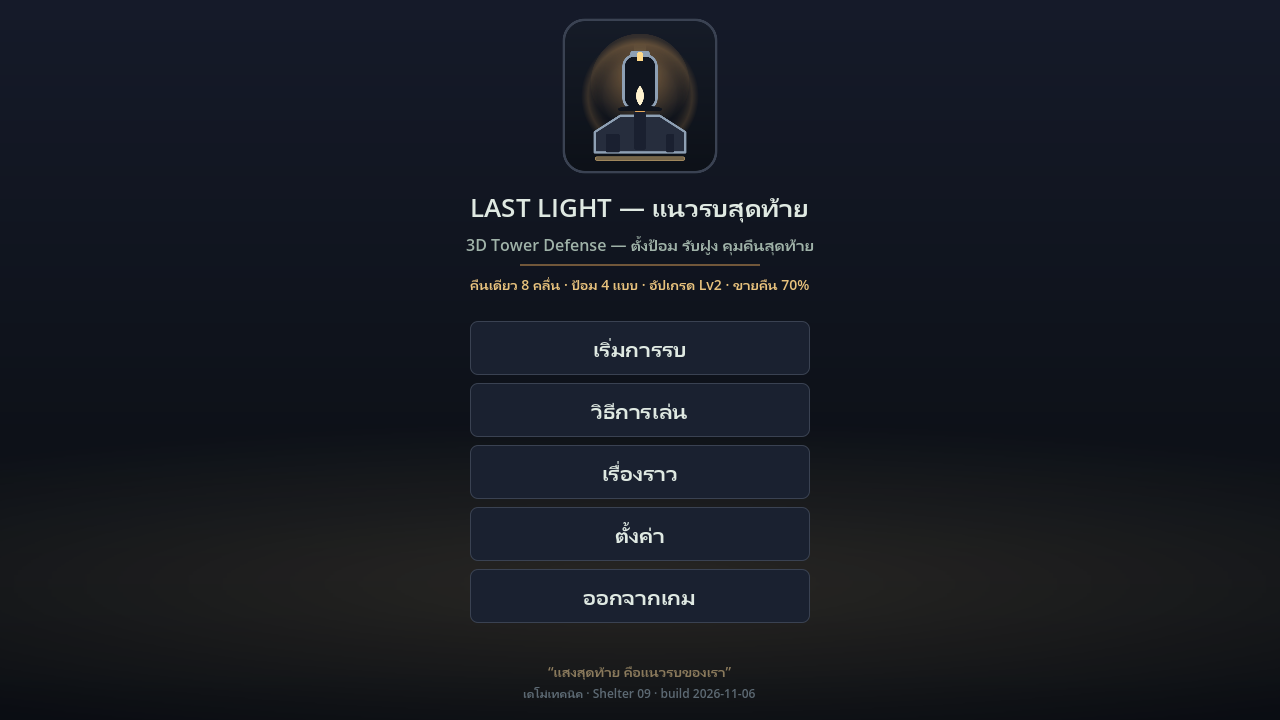
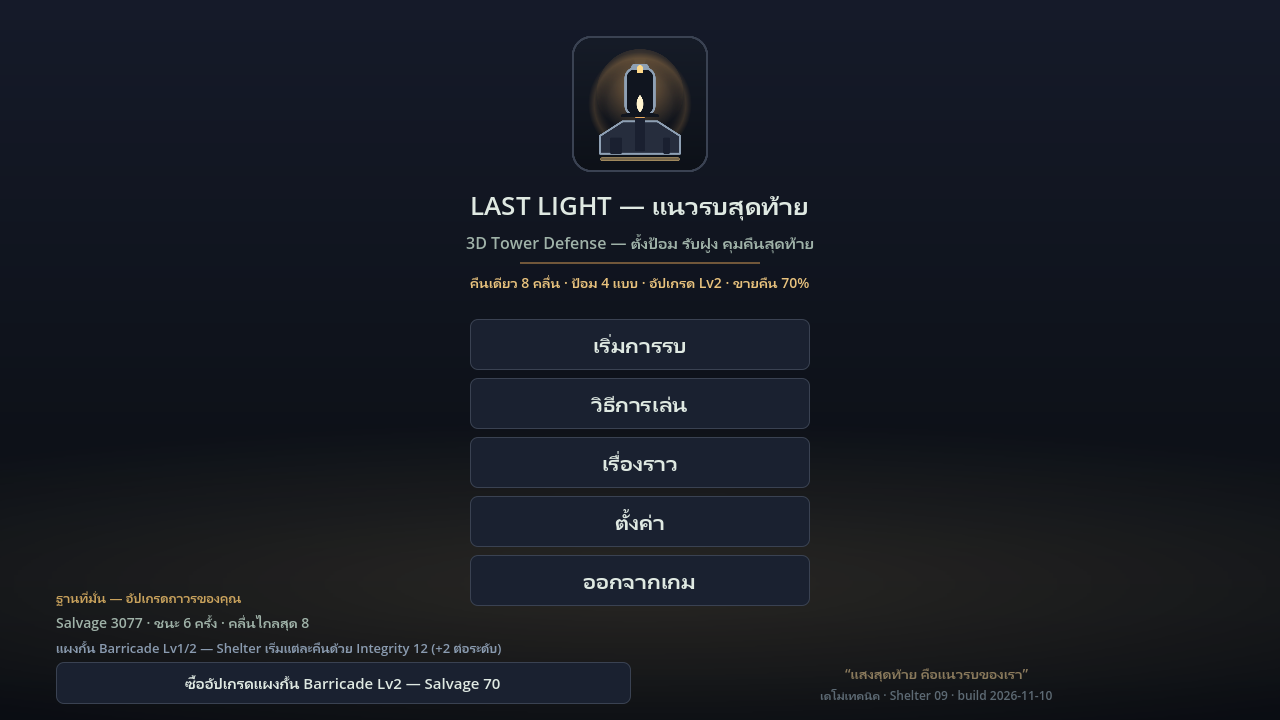
docs(3d): EN store copy + rebuilt marketing captures + title footer 720p fix
MARKETING.md: the TH long copy no longer contradicts the shipped game (it claimed hero units were fully cut - Rin is on the field now); rewritten to cover Rin, per-tower targeting, two maps and the base panel. Added the EN store copy (Short/Long/feature bullets) drafted against the real data numbers (cost 80/120/60/140, 8 waves, 70% refund), flagged as awaiting the Game Director's final approval before publishing, plus a recapture note and an EN-approval checklist item. BUILD_TAG moved to 2026-11-10 (CSV reimported, phase7 green). Real bug found while eyeballing the captures: the title-menu base panel clipped at 720p - measured with the new dev_layout_probe.gd (buy button bottom 728 > 720, footer was 92px tall for ~116px of content), fixed in title_menu.gd footer offset_top -108 -> -132 (panel now ends at y704 with a 16px margin). New dev_marketing_capture.gd re-captures menu_title.png and showcase_battle.png from the real build in-engine (base panel complete, battle frame with live combat - Tangle aura, Sonic FX, drifters on the road). Docs pointers updated (ROADMAP, AGENTS, dev log). 11/11 suites green; balance data untouched.

diff --git a/docs/MARKETING.md b/docs/MARKETING.md
@@ -23,28 +23,55 @@
 ### Short (itch.io blurb, ~60 คำ)
 
 > เกาะชายฝั่งหลังคืนไร้ดาว ฝูง Hollows ยกมาตามถนนทุกคืนเพื่อล้ำแนวรบของ Shelter 09
-> คุณคือริน เปลี่ยนเศษ Salvage เป็นป้อมยิง เครื่องคลื่น และสายพันเท้า — ตั้ง อัปเกรด ขายคืน
-> รอดครบ 8 คลื่นจนตัวจริงของคืนออกมา: Rift Warden
+> คุณคือริน — วิศวกรคุมแนว: เปลี่ยนเศษ Salvage เป็นป้อมยิง เครื่องคลื่น และสายพันเท้า ตั้ง อัปเกรด ขายคืนได้ 70% ระหว่างเดินยิงคุมหน้าเองด้วยปืนเล็ก
+> รอดครบ 8 คลื่นจนตัวจริงของคืนออกมา: Rift Warden — แล้วเอา Salvage ที่ได้ไปหุ้มฐานที่มั่นเพื่อคืนถัดไป
 
 ### Long (Steam About, ~150 คำ, โครง 3 ย่อหน้า)
 
-> **LAST LIGHT** เป็น tower defense มุมมอง isometric แบบ fixed camera ที่ตัด hero unit ออกทั้งหมด — แผนการรบของคุณคือทั้งหมดที่คุณมี
+> **LAST LIGHT** เป็น tower defense มุมมอง isometric แบบ fixed camera — กระดูกงูของแผนการรบคือแนวป้อม และ **ริน** นักลงสนามที่คุมเอง (WASD + ยิงเอง) เดินคุมหน้าคู่เส้นทางได้อิสระบนพื้นสนามจริง ไม่มีตารางเลน
 >
-> แต่ละคืนคือ 1 รอบภารกิจ: เก็บ Parts จากการกำจัดฝูง Hollows แล้ววางป้อมได้อย่างอิสระบนพื้นสนาม เลือก Field Turret เลเซอร์ยิงเดี่ยว, Sonic Resonator จรวดระเบิดวงกว้าง, Tangle Emitter ไฟฟ้าชะลอ หรือ Arc Cannon พลังงานระเบิดแรง ป้อมอัปเกรดได้ 2 ระดับและขายคืน 70% เสมอ จึงแก้แนวรบได้กลางคืน
+> แต่ละคืนคือ 1 รอบภารกิจ: เก็บ Parts จากการกำจัดฝูง Hollows แล้ววางป้อมโดยใช้พื้นสนามจริง (ไม่มีตารางเลน) — Field Turret เลเซอร์ยิงเดี่ยว, Sonic Resonator จรวดระเบิดวงกว้าง, Tangle Emitter ไฟฟ้าชะลอ, Arc Cannon ระยะไกลระเบิดแรง ป้อมอัปเกรดได้ 2 ระดับ ขายคืน 70% เสมอ และ**ชี้ที่ป้อมกด T สลับโหมดเลือกเป้าต่อป้อม**: หัวแถว / ท้ายแถว / แข็งสุด / อ่อนสุด
 >
-> 8 คลื่นจบด้วย Rift Warden บอสที่ไม่ได้ทนแค่ตัวเลข — มันบังคับให้คุณรื้อแผนที่ตั้งไว้ตั้งแต่คลื่นแรก ระบบเก็บ playtest metrics ติดตั้งในเกมตั้งแต่วันแรก เพราะเราต้องการสถิติจริงในการปรับสมดุล
+> 8 คลื่นปิดด้วย Rift Warden บอสที่บังคับให้คุณรื้อแผนตั้งแต่กลุ่มกลาง ชนะแล้วปลดล็อก **ที่ราบริฟท์** — ถนนยาวโค้งมากกว่า — และทุกคืนส่ง Salvage กลับหน้าเมนูเข้าแผง "ฐานที่มั่น": อัปเกรดถาวร +2 Shelter Integrity ต่อระดับ ใช้กับคืนถัด ๆ ไป
 
 ### Feature list (bullets หน้าร้าน)
 
-- เป้าเคลื่อนที่แบบ "first" + free placement + slow/electric + splash — วางแนวรบตามเส้นทางจริง
-- อัปเกรดสูงสุด 2 ระดับ/ป้อม, ขายคืน 70% — ความผิดพลาดไม่ใช่ game over
-- คลื่นที่ 8 ปิดด้วยบอสตัวเดียว Warden (ราคากำลังบอส: Parts ล้นถ้าชนะ)
-- ภาษาไทยก่อน (UI + story) พร้อมเวลาอ่านสั้นที่เหมาะกับเซสชันกลางคืน
+- ป้อม 4 แบบ + อัปเกรด 2 ระดับ + ขายคืน 70% — แก้แนวได้กลางคืน ผิดพลาดไม่ใช่ game over
+- **โหมดเลือกเป้าต่อป้อม (T):** หัวแถว / ท้ายแถว / แข็งสุด / อ่อนสุด — อ่านเกมแล้วเลือกเอง
+- **ริน — hero คนเดียวของเกม:** auto-deploy ทุกคืน, เดินสายคุมหน้า ยิงที่จุด/ด้านหน้า, เรียกกลับได้ (H)
+- **สองแผนที่ + เรียกคลื่นเชื่อมได้**: กดเปิดคลื่นถัดไปกลางคลื่นเดิม = เสี่ยงเงินไหลเร็ว
+- **แผงฐานที่มั่น (progression ถาวร):** Salvage ทุกคืนสะสมเป็นเกราะเริ่มคืนถัดไป
+- ภาษาไทยก่อน พร้อมสลับ English ได้ในแผงตั้งค่า (UI + คู่มือ + เรื่องราว)
 - low-poly stylized ที่รันได้บนเครื่องธรรมดา (Godot 4, GL Compatibility)
+
+### EN store copy (2026-11-10 — ร่างเตรียมขึ้น; อนุมัติขั้นสุดท้ายโดยผู้กำกับก่อนเผยแพร่จริง)
+
+**Short (itch.io EN blurb, ~60 คำ):**
+
+> On a coast gone dark since the starless night, the Hollows march down the old roads every night to break Shelter 09's line. You are Rin — the holding engineer: turn salvaged parts into lasers, rocket salvos and wire entanglements. Place anywhere, upgrade, sell back 70%. Rain fire while she covers the ground herself, survive one eight-wave night, then put your salvage into the base's permanent armor for the next.
+
+**Long (Steam EN About, ~160 คำ):**
+
+> **LAST LIGHT** is a fixed-camera isometric tower defense: your towers are the backbone of the plan, and Rin, your on-field operative, fights beside them with WASD movement and aimed strikes. Placement is free — put a turret anywhere the salvage can reach.
+>
+> Each night is one mission: scrap the Hollows for Parts, then choose between the Field Turret (fast laser shots), the Sonic Resonator (wide-area splash), the Tangle Emitter (an electric slow field) and the Arc Cannon (long-range bursts). Each tower upgrades twice and sells back 70% — and pointing at a tower and pressing T changes which enemy it targets: first, last, strongest or weakest.
+>
+> Eight waves close with the Rift Warden. Clearing map 1 unlocks Rift Fields, a longer winding route, and every night's salvage feeds the base panel on the title screen — permanent Barricade armor, +2 Shelter Integrity per level, for the nights after.
+
+**EN feature bullets:**
+
+- 4 towers with free placement, two upgrade levels, always 70% sell-back
+- Per-tower targeting modes (T): first / last / strongest / weakest
+- Rin, your single hero: auto-deploys, WASD + aimed strikes, recall with H
+- Two nights (maps) after victory — chain the next wave early for faster money at greater risk
+- Permanent base-panel progression from battlefield salvage
+- Thai-first UI with instant English switch in settings
+- Low-poly stylized visuals that run on modest PCs (Godot 4, GL Compatibility)
 
 ## 3) Visual / Logo
 
 - **ต้นฉบับเวกเตอร์:** `projects/last-light-3d/assets/brand/logo_emblem.svg` (copy ที่ `docs/art/logo_emblem.svg`)
+- **ภาพหน้าร้าน:** `docs/marketing/menu_title.png` + `showcase_battle.png` — **re-capture 2026-11-10** จาก build จริง (มีแผงฐานที่มั่นบนเมนู, ริน+การ์ด+HUD ฉากรบ คลื่น 1 มีการต่อสู้จริง) ผ่าน `projects/last-light-3d/tests/dev_marketing_capture.gd` (in-engine capture เท่านั้น) — เปลี่ยนเมนู/ฉากเพิ่มเมื่อไรให้ recapture ด้วย
 - **สัญลักษณ์:** ตะเกียงเรือนแสงบนเพลาสัญญาณ + ไซโล Shelter 09 เป็นเงา 2 มิติ ล้อมด้วยแอมเบอร์ halo — คือ "แสงสุดท้ายที่ต้องถูกปกป้อง"
 - **Palette ของแบรนด์** (ใช้ตรงกับทั้ง UI และงานสื่อสาร):
   - พื้นมืด `#141826` / `#0d1118`
@@ -72,6 +99,7 @@
 ## 6) Launch checklist
 
 - [ ] เลขทั้งหมดใน copy ตรงกับ data `.tres` (cost 80/120/60/140, 8 waves, refund 70%)
+- [ ] copy ภาษาอังกฤษ (หัวข้อ EN store copy) ผ่านการอนุมัติผู้กำกับขั้นสุดท้าย
 - [ ] ตัวหนังสือไทยไม่ตัดกัน (ตรวจที่ 1280x720 และ 1920x1080)
 - [ ] GIF/ภาพมาจาก build จริงที่ metrics บันทึกอยู่ (ไม่ใช่ build debug ที่แกตัวเลข)
 - [ ] ชื่อเรื่อง/ชื่อ IP สะกดตรงกันในทุก asset: LAST LIGHT, Shelter 09, ริน, มีรา, Hollows, Rift Warden

diff --git a/docs/ROADMAP.md b/docs/ROADMAP.md
@@ -77,7 +77,7 @@
 - **ทำแล้ว (2026-11-07):** Localization ไทย/อังกฤษ — `translations.csv` (keys,en,th) + เลือกภาษาใน settings panel + เปลี่ยนภาษาสดทุกหน้าที่เปิดอยู่ (menu/HUD/การ์ดป้อม/หน้าจบ) ผ่าน `TDSettingsStore` (section `localization`, ค่าเริ่มต้น `th`); เทสต์ phase7 เพิ่มเป็นชุดที่ 7 — **เช็กลิสต์ TD-2 ปิดครบทุกหัวข้อ**
 - **ทำแล้ว (2026-11-09):** งานตามคำสั่งผู้กำกับ 3 ข้อ: (1) Splitter ศัตรูใหม่ (ตายแล้วแตก TRAINER-CHILD, ค่าใน `splitter.tres`) + FX ชุดใหม่ (`KIND_SPLIT`, spawn portal, boss aura) เพื่อเพิ่มแรงกดดันตาม sim metrics ชุดแรก; (2) **Map 2** หลังผ่านด่าน 1 — `TDMapLayout` Resource + map_01/map_02 `.tres` + TDMapSession handoff + resume รู้จัก map + victory → NEXT_MAP flow; (3) Active **Hero prototype** (ริน) dev-gated คีย์ H ตามคำสั่งผู้กำกับ — ละเว้น "วางป้อมล้วน" ชั่วคราวใน dev build รอตัดสินหลังลองเล่น (ดู GDD_3DTD §11); เทสต์ phase8–10 เพิ่มเป็นชุดที่ 8–10, ตัวเลข hero ทั้งหมดใน `data/heroes/rin_prototype.tres`
 - **ทำแล้ว (2026-11-09, ต่อเดิมวันเดียวกัน):** wave iteration pass ตาม metrics รอบใหม่ — เป้า TD-1 "leak > 0 คลื่น 5–7" ถึงแล้วบน map 1 (leaks 5:4/6:1/7:2, ชนะ integrity 5/12, upgrade ถูกใช้) ผ่าน `TDMapLayout.wave_paths` per-map wave override (map 1 ใช้ชุด `data/waves/map_01/`, map 2 คง default ชนะ 11/12); `spawn_interval` เป็นเหลี่ยมที่กัด rate จริง, `health_bonus` คง curve เดิม; งานนี้ไม่ขยับจนกว่า playtest มนุษย์ตัดสินอีกทาง
-- **ทำแล้ว (2026-11-09–10):** (1) fix dressing map 2 จาก playtest — บ้าน/ต้นไม้/โคม/บ่อบางจุดทับถนนเดิน ย้ายออกครบ + guard `_path_distance_to` ตรวจเตือน prop ตัวแน่นิยามที่ตกบนถนน (commit `3dcc415`); (2) **footer-left หน้า title รีดไซน์** ตาม feedback "ไม่เข้าใจ ไม่ work" — เป็นแผง "ฐานที่มั่น — อัปเกรดถาวรของคุณ" (หัวข้อ + สถิติ `Salvage/ชนะ/คลื่นไกลสุด` + บรรทัดผลจริง `Barricade LvX/Y → Integrity เริ่มคืน = Z` อ้างค่าเดียว `TDRun.START_INTEGRITY` + ปุ่มซื้อที่กดได้เสมอ เงินไม่พอขึ้นข้อความ "Salvage ไม่พอ — ต้องการอีก N" บนหน้าจอ ไม่ตายเงียบ); (3) **Hero ริน อนุมัติแล้ว (ดู GDD_3DTD §11)** — auto-deploy ทุกคืน + HUD การ์ดควบคุม `HERO_PANEL`/`HERO_HINT` + H = เรียก/ส่งกลับ + คลิกซ้ายยิงที่จุด + F ยิงด้านหน้า; เทสต์ phase10 ปรับครอบ auto-spawn/HUD sync, translations.csv + reimport `.translation` ครบ; (4) **leak คลื่น 1 map 2 ปิด** — `data/waves/map_02/wave_01.tres` (interval 1.0→1.2 เฉพาะคลื่น teaching) + `map_02.tres.wave_paths` คลื่น 1 เฉพาะ map 2: sim ชนะ **12/12 leak 0** (เดิม 11/12); (5) **targeting mode ต่อป้อม** — FIRST/LAST/STRONGEST/WEAKEST วนด้วย T บนป้อมใต้เคอร์เซอร์, chip Label3D localize เหนือป้อม (ซ่อนตอน FIRST) + toast + metrics `targeting_changed`, เทสต์ phase11 เพิ่มเป็นชุดที่ 11, sim ผลเดิมทั้งสองแผน (11/11 เขียว)
+- **ทำแล้ว (2026-11-09–10):** (1) fix dressing map 2 จาก playtest — บ้าน/ต้นไม้/โคม/บ่อบางจุดทับถนนเดิน ย้ายออกครบ + guard `_path_distance_to` ตรวจเตือน prop ตัวแน่นิยามที่ตกบนถนน (commit `3dcc415`); (2) **footer-left หน้า title รีดไซน์** ตาม feedback "ไม่เข้าใจ ไม่ work" — เป็นแผง "ฐานที่มั่น — อัปเกรดถาวรของคุณ" (หัวข้อ + สถิติ `Salvage/ชนะ/คลื่นไกลสุด` + บรรทัดผลจริง `Barricade LvX/Y → Integrity เริ่มคืน = Z` อ้างค่าเดียว `TDRun.START_INTEGRITY` + ปุ่มซื้อที่กดได้เสมอ เงินไม่พอขึ้นข้อความ "Salvage ไม่พอ — ต้องการอีก N" บนหน้าจอ ไม่ตายเงียบ); (3) **Hero ริน อนุมัติแล้ว (ดู GDD_3DTD §11)** — auto-deploy ทุกคืน + HUD การ์ดควบคุม `HERO_PANEL`/`HERO_HINT` + H = เรียก/ส่งกลับ + คลิกซ้ายยิงที่จุด + F ยิงด้านหน้า; เทสต์ phase10 ปรับครอบ auto-spawn/HUD sync, translations.csv + reimport `.translation` ครบ; (4) **leak คลื่น 1 map 2 ปิด** — `data/waves/map_02/wave_01.tres` (interval 1.0→1.2 เฉพาะคลื่น teaching) + `map_02.tres.wave_paths` คลื่น 1 เฉพาะ map 2: sim ชนะ **12/12 leak 0** (เดิม 11/12); (5) **targeting mode ต่อป้อม** — FIRST/LAST/STRONGEST/WEAKEST วนด้วย T บนป้อมใต้เคอร์เซอร์, chip Label3D localize เหนือป้อม (ซ่อนตอน FIRST) + toast + metrics `targeting_changed`, เทสต์ phase11 เพิ่มเป็นชุดที่ 11, sim ผลเดิมทั้งสองแผน; (6) **เอกสารส่งมอบครบ** — คู่มือบนเกม HOW_TO_BODY 10 ขั้น, PLAYER_MANUAL_3D, AI_HANDOFF, START_HERE; **EN store copy (MARKETING.md)** ครบฉบับไทย/อังกฤษ (รอผู้กำกับอนุมัติขั้นสุดท้ายก่อนเผยแพร่), ภาพ `docs/marketing/` re-capture จาก build จริง 11/11 เขียว + **แก้บั๊ก footer หน้า title: ปุ่มซื้ออัปเกรดโดนตัดขอบล่างที่ 720p (bottom 728 > 720) — footer offset_top −108→−132, ปุ่มจบ y704 เว้น 16px (วัดด้วย dev_layout_probe)**
 
 ### ระเบียบการตัดสินข้ามฉบับ
 

diff --git a/docs/NIGHTLY_DEV_LOG.md b/docs/NIGHTLY_DEV_LOG.md
@@ -11,6 +11,8 @@
 - ผลเทสต์ phase11 ใหม่ (`tests/phase11_targeting_test.gd`): default FIRST / วน cycle ครบ 4 โหมด / chip lazy-build + ซ่อนตอน FIRST / acquire ต่อโหมดเลือกถูกจากคู่ศัตรู orthogonal (หัวแถว-HP บาง vs ตัวหลัง-HP หนา) / tower-under-mouse จริงผ่าน camera unproject / toast + metrics — **11/11 ชุดเขียว exit 0**
 - selfshot `_targeting_selfshot.png` chip "ยิงแข็งสุด" เหนือป้อม + toast "เปลี่ยนเป้า: ..." อ่านได้จริง
 - **เอกสารส่งมอบ (2026-11-10, ต่อ):** คู่มือบนเกม `HOW_TO_BODY` เพิ่มขั้น 4–5 (hero WASD/คลิกซ้าย/F/H + T เลือกเป้า) และขั้น 9–10 (map 2 + แผงฐานที่มั่น) — reimport แล้ว selfshot ตรวจตาครบ; `docs/PLAYER_MANUAL_3D.md` (ควบคุมครบ T/WASD/F/H + Integrity เริ่ม 12 ตาม Barricade Lv1 + หัวริน + map 2 "ที่ราบริฟท์"), `docs/AI_HANDOFF.md` (วันที่ + โค้ดแมปครบ 2026-11-10 + ข้อควรรู้งาน 09/10 + ข้อตกลง hero ตัวเดียวฉบับใหม่), `START_HERE.md` (สถานะปัจจุบัน), dev log แก้ประโยคเสียจากงานคืนกลางคืน — ชุดเทสต์เขียวใหม่ 11/11 exit 0
+- **EN marketing copy + ภาพหน้าร้าน (2026-11-10, ปิดคิวสุดท้าย):** `docs/MARKETING.md` — แก้ TH Long copy ที่ยังเขียน "ตัด hero unit ออกทั้งหมด" (ขัดเกมจริง) → ฉบับใหม่ครอบ ริน/T/สองแผนที่/แผงฐานที่มั่น + **EN store copy ครบ Short/Long/feature bullets** (ร่างล็อกเลขตาม data; รอผู้กำกับอนุมัติขั้นสุดท้ายก่อนเผยแพร่) + re-capture `menu_title.png`/`showcase_battle.png` จาก build จริงผ่าน `dev_marketing_capture.gd` (ใหม่, in-engine เท่านั้น) — BARRICADE_EFFECT คือแหล่งตัวเลขเดียวของ meta line, BUILD_TAG เลื่อนเป็น 2026-11-10
+- **บั๊ก UI จริงที่เจอจากการตรวจตาภาพ:** แผงฐานที่มั่นหน้า title โดนตัดขอบล่างที่ 720p — วัดจริงด้วย `dev_layout_probe.gd` (ใหม่): ปุ่มซื้อ bottom 728 > 720 (เนื้อ VBox ต้องการ ~116px แต่ footer สูงแค่ 92px) — แก้ footer `offset_top` −108 → **−132** (แผงจบ y704 เว้น 16px); เหตุที่ตรวจพิเศษ: ผู้เล่น 720p กดปุ่มซื้อแย่และบรรทัด feedback มีโอกาสตกจอ
 - บทเรียน Godot 4.7: cast enum ด้วยวงเล็บ `TargetingMode(x)` และ `String(enum_value)` parse fail — ใช้ `.values()[x]` / `.keys()[x]` แทน
 
 ### (0) Leak คลื่น 1 บน map 2 — ปิดด้วย sim metrics (10/10 เขียว)

diff --git a/AGENTS.md b/AGENTS.md
@@ -49,4 +49,4 @@ Godot 4.7.2 ต้องอยู่ใน PATH หรือตั้ง env `GO
 3. **TD-2:** Blender low-poly assets ✅ (ผ่าน Blender AI Bridge; asset suite ครบ ป้อม/ศัตรู/props)
 4. Settings (volume/accessibility) ✅ 2026-11-04; flash save บนโปรเจกต์ 3D ✅ 2026-11-05; **Localization ไทย/อังกฤษ ✅ 2026-11-07** (translations.csv + เลือกภาษาใน settings, เปลี่ยนสดทุกหน้า, เทสต์ phase7)
 5. **Playtest มนุษย์ TD-2** ✅ 2026-11-06 — เกณฑ์ผ่าน (วางป้อมแรก 5 วิ < 25 วิ, อธิบาย leak ได้) ครั้งแรก; รอรอบใหม่บน wave set 2026-11-09 + Splitter
-6. **งานเสนอชุดถัดไป (ต้องได้ Game Director รับก่อน):** โหมดภาษาอังกฤษต่อยอดใน marketing copy; **targeting mode ต่อป้อม ✅ ทำแล้ว 2026-11-10** (FIRST/LAST/STRONGEST/WEAKEST, คีย์ T, phase11, 11/11 เขียว — เมตริก `targeting_changed` เริ่มสะสม, รอ playtest มนุษย์ดูว่าผู้เล่นใช้จริงไหม); **leak คลื่น 1 บน map 2 ✅ ปิดแล้ว 2026-11-10** (map_02 wave_01 @1.2 — sim 12/12 leak 0); **Hero ริน อนุมัติแล้ว 2026-11-10** (auto-deploy + HUD การ์ด, phase10 ครบ) — ขั้นถัดไปถ้ามี: playtest มนุษย์ hero/targeting ต่างหาก + metrics `hero_strike`/`targeting_changed` สะสม
+6. **งานเสนอชุดถัดไป (ต้องได้ Game Director รับก่อน):** **โหมดภาษาอังกฤษใน marketing copy ✅ ทำแล้ว 2026-11-10** (MARKETING.md EN store copy ครบ Short/Long/features — ร่างล็อกเลขตาม data; ผู้กำกับอนุมัติขั้นสุดท้ายก่อนขึ้นหน้าร้านจริง); **targeting mode ต่อป้อม ✅ ทำแล้ว 2026-11-10** (FIRST/LAST/STRONGEST/WEAKEST, คีย์ T, phase11, 11/11 เขียว — เมตริก `targeting_changed` เริ่มสะสม, รอ playtest มนุษย์ดูว่าผู้เล่นใช้จริงไหม); **leak คลื่น 1 บน map 2 ✅ ปิดแล้ว 2026-11-10** (map_02 wave_01 @1.2 — sim 12/12 leak 0); **Hero ริน อนุมัติแล้ว 2026-11-10** (auto-deploy + HUD การ์ด, phase10 ครบ) — ขั้นถัดไปถ้ามี: playtest มนุษย์ hero/targeting ต่างหาก + metrics `hero_strike`/`targeting_changed` สะสม; itch.io/Steam publish flow (แพ็ก build จริง) ยังไม่เริ่ม — ต้องคำตัดสินผู้กำกับอีกชั้น
